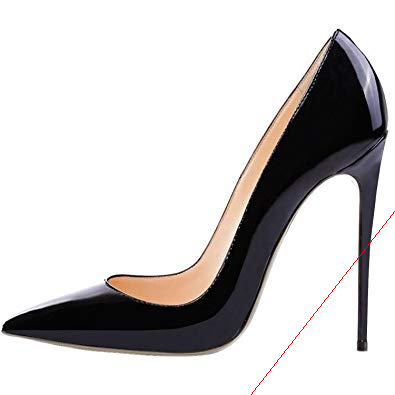
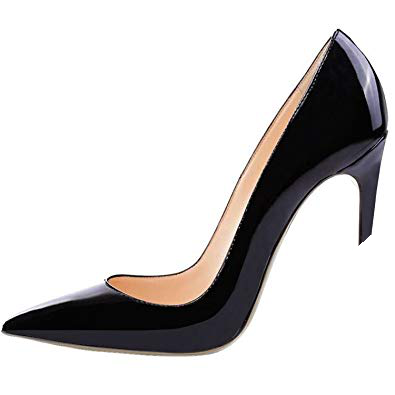
Data Generation

Changed region(s): [[0.881, 0.5772, 0.9418, 0.9114]]

diff --git a/PictureEditing.py b/PictureEditing.py
@@ -2,10 +2,11 @@ from PIL import Image, ImageDraw
 
 highHeel = Image.open('high_heel.jpg')
 
+
 width, height = highHeel.size
 
 
-endPoints = [(395, 210), (250, 395)]
+endPoints = [(395, 210), (250, 340)]
 
 draw = ImageDraw.Draw(highHeel)
 draw.line(endPoints, fill='red')
@@ -24,18 +25,31 @@ def drawLines(points, numLines):
 	draw = ImageDraw.Draw(highHeel)
 	#rightX and bottomY coordinates stay constant
 	rightPtX, rightPtY = points[0][0], points[0][1]
-	botPtX, botPtY = points[1][0], points[1][1]
+	leftPtX, leftPtY = points[1][0], points[1][1]
 
 	for i in list(range(1, numLines+1)):
 		# shift the point on the bottom of the image left
 		# shift the point on the side of the image down
-		rightPtY+= i*10
-		botPtX+= i*10
+		rightPtY += 3
+	#	leftPtX += 10
 
-		ends = [(rightPtX, rightPtY), (botPtX, botPtY)]
+		ends = [(rightPtX, rightPtY), (leftPtX, leftPtY)]
 		draw.line(ends, fill='red')
-	highHeel.save('try2.png')
-
+		tryi_string = 'try' + str(i) + '.png'
+		tryi = Image.open('high_heel.jpg')
+		draw = ImageDraw.Draw(tryi)
+		tiwidth,tiheight = tryi.size
+		highHeel.save(tryi_string)
+		for j in range(tiwidth) :
+			for k in range(tiheight):
+				point = [(j,k)]
+				distance = (j - leftPtX)*(rightPtY - leftPtY) - (k - leftPtY)*(rightPtX - leftPtX)
+				if distance < 0:
+					draw.point(point,fill='white')
+		tryi.save(tryi_string)
 	firsty = Image.open('try2.png')
 	firsty.show()
+drawLines(endPoints,100)
+
+
 
